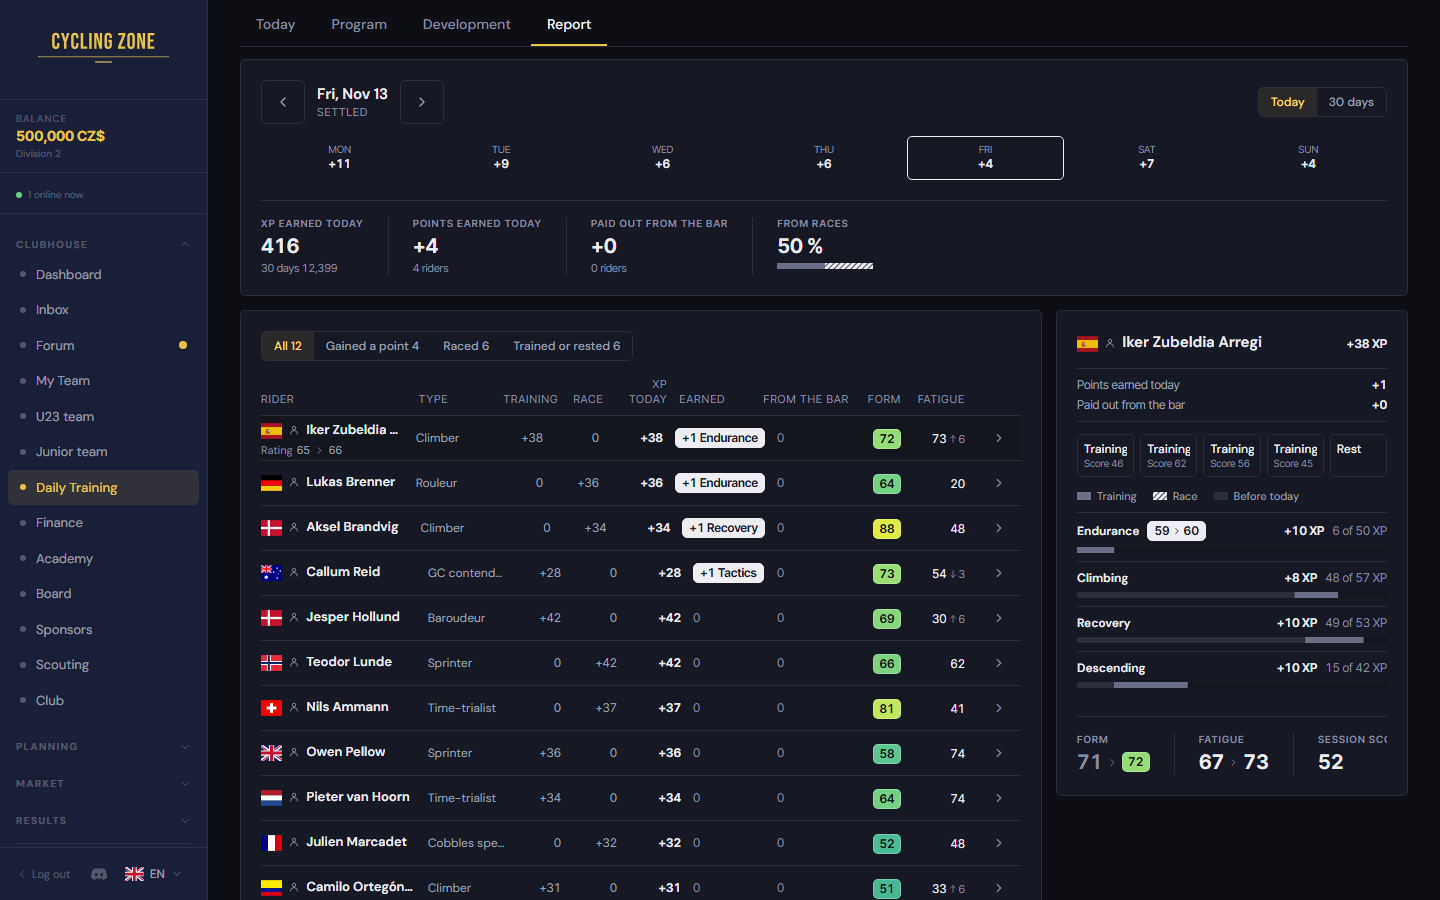
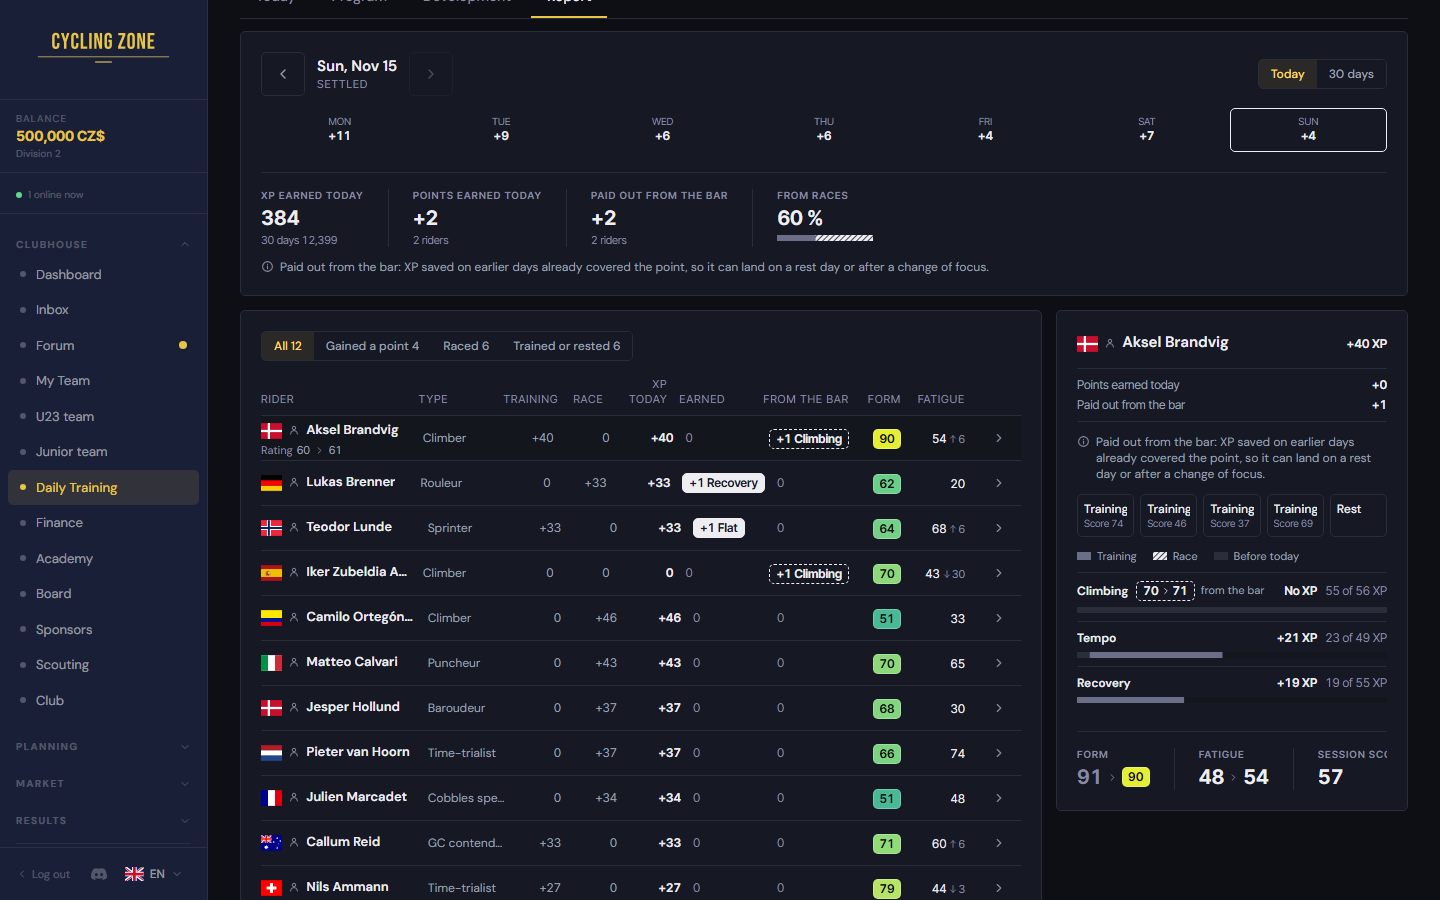
fix(7947): ratingstigningen kun paa nyeste dato, og kun naar truppen staar hvor datoen efterlod den (Codex P2, Refs #7947)
Truppens evner er rytteren NU; der findes intet evne-billede pr. dato. En
aeldre dato ville blande dens spring med senere evner, saa den viser intet.
Fixturens utraenede evner faar eget salt, saa standarddagen viser en stigning.
Nyt rapport-billede paa standarddagen.

diff --git a/frontend/src/lib/xpRatingChange.test.ts b/frontend/src/lib/xpRatingChange.test.ts
@@ -11,11 +11,11 @@ const flat = (level: number): Record<string, number> => Object.fromEntries((ABIL
 const allJump = (from: number, to: number) => Object.fromEntries((ABILITY_KEYS as readonly string[]).map(k => [k, { from, to }]));
 
 test("#7947 rating before and after the date's points, the game's best-role rating", () => {
-  assert.deepEqual(ratingChange(flat(40), allJump(40, 41)), { from: 40, to: 41 });
+  assert.deepEqual(ratingChange(flat(41), allJump(40, 41)), { from: 40, to: 41 });
 });
 
 test("#7947 the rating is the same as riderBestRole on the same abilities", () => {
-  const rider = { ...flat(40), sprint: 52, acceleration: 47 };
+  const rider = { ...flat(40), sprint: 53, acceleration: 48 };
   const detail = { sprint: { from: 51, to: 53 }, acceleration: { from: 46, to: 48 } };
   const expectFrom = riderBestRole({ ...rider, sprint: 51, acceleration: 46 }).rating;
   const expectTo = riderBestRole({ ...rider, sprint: 53, acceleration: 48 }).rating;
@@ -24,15 +24,16 @@ test("#7947 the rating is the same as riderBestRole on the same abilities", () =
   else assert.deepEqual(got, { from: expectFrom, to: expectTo });
 });
 
-test("#7947 only the date's own jumps move the number (an older date reads the same)", () => {
-  // Today the rider is higher than on the date; the jump still decides from and to.
-  assert.deepEqual(ratingChange(flat(60), allJump(40, 41)), { from: 40, to: 41 });
+test("#7947 a roster that moved on past the date gives nothing (no per-date snapshot, Codex P2)", () => {
+  // The jumped ability no longer stands where the date left it: the rider trained since.
+  assert.equal(ratingChange(flat(60), allJump(40, 41)), null);
+  assert.equal(ratingChange({ ...flat(40), sprint: 43 }, { sprint: { from: 41, to: 42 } }), null);
 });
 
 test("#7947 no change in the rating = nothing to show", () => {
   const counted = new Set(DISPLAY_RECIPES.flatMap(r => Object.keys(r.weights)));
   const uncounted = (ABILITY_KEYS as readonly string[]).find(k => !counted.has(k));
-  if (uncounted) assert.equal(ratingChange(flat(40), { [uncounted]: { from: 40, to: 41 } }), null);
+  if (uncounted) assert.equal(ratingChange({ ...flat(40), [uncounted]: 41 }, { [uncounted]: { from: 40, to: 41 } }), null);
   assert.equal(ratingChange(flat(40), { sprint: { from: 40, to: 40 } }), null);
 });
 

diff --git a/frontend/src/lib/xpRatingChange.ts b/frontend/src/lib/xpRatingChange.ts
@@ -3,10 +3,14 @@
 // (gains_detail); the rider's other abilities come from the roster. Before and
 // after are the same best-role rating the rest of the game shows (riderBestRole),
 // computed on the rider's abilities with the date's jumps set to `from` and to `to`.
-// Only the date's own points move the number, so an older date reads the same way.
+// The roster is the rider NOW, so it only describes the state after the newest date:
+// the report asks for that date alone, and a roster whose jumped abilities no longer
+// stand at `to` (it moved on) gives nothing. There is no ability snapshot per date,
+// so an older date shows nothing rather than a number built on later abilities
+// (Codex P2 on #8488).
 //
-// Pure, no React. null = nothing to show: no abilities, no usable jump, or the
-// rating did not change (the report then shows nothing, never "34 > 34").
+// Pure, no React. null = nothing to show: no abilities, no usable jump, a roster
+// past the date, or the rating did not change (never "34 > 34").
 import { riderBestRole } from "./riderRating.js";
 import { abilityValue } from "./generated/displayRecipes.js";
 
@@ -23,9 +27,9 @@ export function ratingChange(
   if (!abilities || typeof abilities !== "object" || !detail || typeof detail !== "object") return null;
   const jumps = Object.entries(detail).filter((entry): entry is [string, { from: number; to: number }] =>
     finite(entry[1]?.from) && finite(entry[1]?.to) && entry[1].to !== entry[1].from);
-  // The roster row must carry the rider's abilities (flattened); a jump alone would
-  // rate the rider on one ability and invent a number.
-  if (jumps.length === 0 || !jumps.every(([key]) => abilityValue(abilities[key]) !== null)) return null;
+  // The roster row must carry the rider's abilities (flattened) and stand exactly where
+  // the date left them; a jump alone would rate the rider on one ability and invent a number.
+  if (jumps.length === 0 || !jumps.every(([key, jump]) => abilityValue(abilities[key]) === jump.to)) return null;
   // The cached best_role_rating is a fallback for rows without abilities; it would
   // read the same before and after, so it is left out on purpose.
   const before: Record<string, unknown> = { ...abilities };

diff --git a/frontend/src/components/training/reportXp/xpReportFixture.ts b/frontend/src/components/training/reportXp/xpReportFixture.ts
@@ -135,10 +135,11 @@ export function buildXpReportFixture(): XpFixture {
     });
   }
   receipts.reverse(); // newest first, like aggregateTrainingRuns
-  // #7947: every ability after the last date (invented levels), for the rating change.
+  // #7947: every ability after the last date, for the rating change. Untrained abilities
+  // are invented too (own salt), picked so the default day shows one rating move.
   const abilities = Object.fromEntries(RIDERS.map(r => {
     const s = state.get(r.id)!;
-    return [r.id, Object.fromEntries((ABILITY_KEYS as readonly string[]).map(key => [key, s.levels[key] ?? pick(noise(r.id, key, "lvl"), 38, 76)]))];
+    return [r.id, Object.fromEntries((ABILITY_KEYS as readonly string[]).map(key => [key, s.levels[key] ?? pick(noise(r.id, key, "ability"), 38, 76)]))];
   }));
   return { receipts, nations: Object.fromEntries(RIDERS.map(r => [r.id, r.nation])), types: Object.fromEntries(RIDERS.map(r => [r.id, { primary: r.type[0], secondary: r.type[1] }])), scores, abilities };
 }

diff --git a/frontend/src/lib/trainingReportXp.ts b/frontend/src/lib/trainingReportXp.ts
@@ -281,7 +281,8 @@ export function buildTodayView(runs: ReadonlyArray<XpReceipt>, date: string | nu
       sessions: row.activities.map((a, i) => sessionOf(a, scores[i])),
       abilities,
       sessionScore: sessionScores.length ? Math.round(sessionScores.reduce((s, n) => s + n, 0) / sessionScores.length) : null,
-      rating: ratingChange(options.abilities?.[row.rider_id], row.gains_detail),
+      // #7947: the roster is the rider now, so only the newest date has a rating change.
+      rating: index === days.length - 1 ? ratingChange(options.abilities?.[row.rider_id], row.gains_detail) : null,
     };
   }).sort((a, b) => b.points - a.points || b.xp - a.xp || byName(a, b));
   return {

diff --git a/frontend/src/components/training/reportXp/reportXp.render.test.ts b/frontend/src/components/training/reportXp/reportXp.render.test.ts
@@ -99,6 +99,10 @@ test("#7947 a folded rider shows 'Rating x > y' only when his rating moved", () 
   // Without the roster's abilities nothing is shown.
   const bare = buildTodayView(fx.receipts, null, options)!;
   assert.ok(bare.riders.every(r => !r.rating));
+  // The roster is the rider now: only the newest date can say it (Codex P2 on #8488).
+  assert.equal(date, fx.receipts[0].tick_date);
+  const older = buildTodayView(fx.receipts, fx.receipts[1].tick_date, withAbilities)!;
+  assert.ok(older.riders.every(r => !r.rating), "an older date shows nothing");
 });
 
 test("30 days renders one column per day and never a days-to-go estimate", () => {
